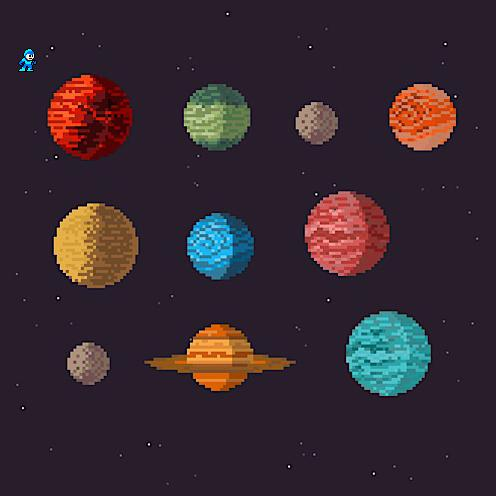
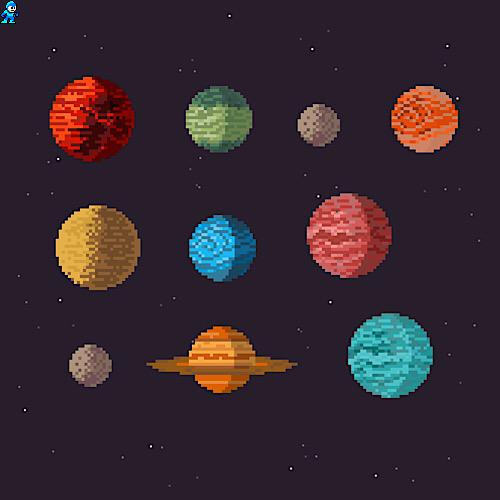
Reworked handling, resizing and moving assets
-Added CLI to interact with the canvas
-Added methods for resizing, moving and loading assets
-Added method to set the background image of the canvas
-Made the canvas have it's own array of assets
-Added ability to resize canvas

diff --git a/src/main.py b/src/main.py
@@ -4,24 +4,29 @@ from PIL import Image, ImageTk
 import pyscreenshot as ImageGrab
 import time
 
-assetCount=-1
-assetArray=[]
+assetCount = -1
+assetArray = []
+background = None
+
 
 class App(tk.Frame):
     def __init__(self, parent):
         tk.Frame.__init__(self, parent)
         self.parent = parent
+        self.assets = []
+        self.assetsLoaded = -1
+        self.background = None
 
-        self.canvasView = tk.Canvas(self, height=500,width=500, bg="black")
-        self.canvasView.grid(row=0, column=0, columnspan=3, sticky='nsew')
+        self.canvasView = tk.Canvas(self, height=200, width=200, bg="black"
+                                    , highlightthickness=0, relief='ridge')
+        self.canvasView.grid(row=0, column=0, columnspan=1, sticky='nsew')
 
-        self.savepic=tk.Button(self, text='SAVE', command=self.save)
+        self.savepic = tk.Button(self, text='SAVE', command=self.save)
         self.savepic.grid(row=1, column=0, sticky='nsew')
 
     def save(self):
-        canvas = self.canvas()  # Get Window Coordinates of Canvas
-        self.grabcanvas = ImageGrab.grab(bbox=canvas).save("out.jpg")
-        print('Screenshoot of tkinter.Canvas saved in "out.jpg"')
+        ImageGrab.grab(bbox=self.canvas()).save("out.jpg")
+        print('Screenshot of tkinter.Canvas saved in "out.jpg"')
 
     def canvas(self):
         print('  def _canvas(self):')
@@ -31,58 +36,103 @@ class App(tk.Frame):
         print('self.cv.winfo_y() =', self.canvasView.winfo_y())
         print('self.cv.winfo_width() =', self.canvasView.winfo_width())
         print('self.cv.winfo_height() =', self.canvasView.winfo_height())
-        x=self.canvasView.winfo_rootx()+self.canvasView.winfo_x()+2
-        y=self.canvasView.winfo_rooty()+self.canvasView.winfo_y()+2
-        x1=x+self.canvasView.winfo_width()-4
-        y1=y+self.canvasView.winfo_height()-4
-        box=(x,y,x1,y1)
+        x = self.canvasView.winfo_rootx() + self.canvasView.winfo_x()
+        y = self.canvasView.winfo_rooty() + self.canvasView.winfo_y()
+        x1 = x + self.canvasView.winfo_width()
+        y1 = y + self.canvasView.winfo_height()
+        box = (x, y, x1, y1)
 
         print('box = ', box)
         return box
 
-    def loadAsset(self, asset,centerX,CenterY):
-        global assetCount
-        assetCount = assetCount + 1
-        assetArray.append(asset)
-        assetArray[assetCount].setPhoto(ImageTk.PhotoImage(assetArray[assetCount].image))
-        asset.setIdentifier(self.canvasView.create_image(centerX, CenterY, image=assetArray[assetCount].photo))
+    def resizeCanvas(self, width, height):
+        self.canvasView.configure(width=width, height=height)
 
-    def unloadAsset(self,asset):
+    def loadAsset(self, asset):
+        self.assetsLoaded = self.assetsLoaded + 1
+        self.assets.append(asset)
+        asset.setPhoto(ImageTk.PhotoImage(asset.image))
+        asset.setIdentifier(self.canvasView.create_image(asset.posX,
+                                                         asset.posY,
+                                                         image=asset.photo,
+                                                         anchor='nw'))
+
+    def unloadAsset(self, asset):
         try:
-            assetArray.remove(asset)
+            self.assets.remove(asset)
             self.canvasView.delete(asset.canvasID)
         except:
             print("Asset not loaded:", asset)
 
+    def setBackground(self, background):
+        background.setPhoto(ImageTk.PhotoImage(background.image))
+        background.setIdentifier(self.canvasView.create_image(background.posX,
+                                                              background.posY,
+                                                              image=background.photo,
+                                                              anchor='nw'))
+        self.resizeCanvas(background.centerX*2, background.centerY*2)
+
 
 class Asset():
+    def __init__(self, fileName, name):
+        self.name = name
+        self.image = None
+        self.canvasID = None
+        self.centerX = None
+        self.centerY = None
+        self.posX = 0
+        self.posY = 0
+        self.photo = None
+        self.load(fileName)
+
     def load(self, fileName):
         if isinstance(fileName, str):
             try:
                 self.image = Image.open(fileName)
                 self.centerX = self.image.size[0] // 2
                 self.centerY = self.image.size[1] // 2
+                global assetCount
+                assetCount = assetCount + 1
             except FileNotFoundError:
                 print("File doesn't exist or couldn't be read:", fileName)
         else:
             print("Invalid Parameter", fileName)
 
+    def resizeAssetMultiplier(self, multiplier):
+        self.image = self.image.resize((multiplier*self.image.size[0],
+                                        multiplier*self.image.size[1]),
+                                       Image.ANTIALIAS)
+
+    def resizeAsset(self, newSizeX, newSizeY):
+        self.image = self.image.resize((newSizeX,newSizeY), Image.ANTIALIAS)
+
+    def move(self, deltaX, deltaY):
+        self.posX = self.posX + deltaX
+        self.posY = self.posY + deltaY
+
+    def moveAbs(self, absX, absY):
+        self.posX = absX
+        self.posY = absY
+
     def unload(self):
+        global assetArray
+        assetArray.remove(self)
         self.image = None
 
-    def setIdentifier(self,id):
+    def setIdentifier(self, id):
         self.canvasID = id
 
-    def setPhoto(self,photo):
+    def setPhoto(self, photo):
         self.photo = photo
 
 
-if __name__ == '__main__':
+def makeCanvas():
     root = tk.Tk()
-    root.title('PAL-Project'), root.geometry("500x525")
+    root.title('PAL-Project')
+    root.resizable(False, False)
     app = App(root)
 
-    app.grid(row=0, column=0,columnspan=2, sticky='nsew')
+    app.grid(row=0, column=0, columnspan=1, sticky='nsew')
 
     root.rowconfigure(0, weight=1)
     root.columnconfigure(0, weight=1)
@@ -92,13 +142,87 @@ if __name__ == '__main__':
     app.columnconfigure(1, weight=1)
     app.columnconfigure(2, weight=1)
 
-    asset1 = Asset()
-    asset1.load('images.jpg')
-    app.loadAsset(asset1,asset1.centerX,asset1.centerY)
-    asset2 = Asset()
-    asset2.load("Gigaman.png")
-    app.loadAsset(asset2,asset2.centerX+20,asset2.centerY+50)
-
-
+    global background
+    if (background != None):
+        app.setBackground(background)
+    global assetArray
+    for a in assetArray:
+        app.loadAsset(a)
+    root.lift()
+    root.attributes('-topmost', True)
+    root.after_idle(root.attributes, '-topmost', False)
     app.mainloop()
 
+
+def moveAsset(assetName, deltaX, deltaY):
+    for a in assetArray:
+        if (a.name == assetName):
+            a.move(deltaX, deltaY)
+            break
+
+
+def moveAssetAbs(assetName, deltaX, deltaY):
+    for a in assetArray:
+        if a.name == assetName:
+            a.moveAbs(deltaX, deltaY)
+            break
+
+
+def resizeAssetMultiplier(assetName, multiplier):
+    for a in assetArray:
+        if (a.name == assetName):
+            a.resizeAssetMultiplier(multiplier)
+            break
+
+
+def resizeAsset(assetName, newSizeX, newSizeY):
+    for a in assetArray:
+        if (a.name == assetName):
+            a.resizeAsset(newSizeX, newSizeY)
+            break
+
+
+if __name__ == '__main__':
+    while True:
+        var = input("PAL CMD:")
+        if var == "create":
+            print("Close Preview Window to continue imputing commands.")
+            makeCanvas()
+        elif var == "background":
+            ast = input("PAL CMD: Enter background file name:")
+            background = Asset(str(ast), "background")
+        elif var == "load":
+            ast = input("PAL CMD: Enter asset file name:")
+            astName = input("PAL CMD: Enter name for the asset:")
+            assetArray.append(Asset(str(ast), astName))
+        elif var == "move":
+            moveMode = input("PAL CMD: Relative position <R>  or absolute <A>")
+            while (moveMode != "R") & (moveMode != "A"):
+                print("Invalid Option, only <R> and <A>")
+                moveMode = input("PAL CMD: Relative position <R>  or absolute <A>")
+            astName = input("PAL CMD: Enter name of the asset:")
+
+            if moveMode == "R":
+                astDeltaX = input("PAL CMD: Enter delta X:")
+                astDeltaY = input("PAL CMD: Enter delta Y:")
+                moveAsset(astName, int(astDeltaX), int(astDeltaY))
+            else:
+                astAbsX = input("PAL CMD: Enter absolute X:")
+                astAbsY = input("PAL CMD: Enter absolute Y:")
+                moveAssetAbs(astName, int(astAbsX), int(astAbsY))
+        elif var == "resize":
+            moveMode = input("PAL CMD: Resize by multiplier <M>  or values <V>")
+            while (moveMode != "M") & (moveMode != "V"):
+                print("Invalid Option, only <M> and <V>")
+                moveMode = input("PAL CMD: Relative position <R>  or absolute <A>")
+            astName = input("PAL CMD: Enter name of the asset:")
+
+            if moveMode == "M":
+                multiplier = input("PAL CMD: Enter multiplier:")
+                resizeAssetMultiplier(astName, int(multiplier))
+            else:
+                newSizeX = input("PAL CMD: Enter size in X:")
+                newSizeY = input("PAL CMD: Enter size in Y:")
+                resizeAsset(astName, int(newSizeX), int(newSizeY))
+        else:
+            print("Invalid command")
